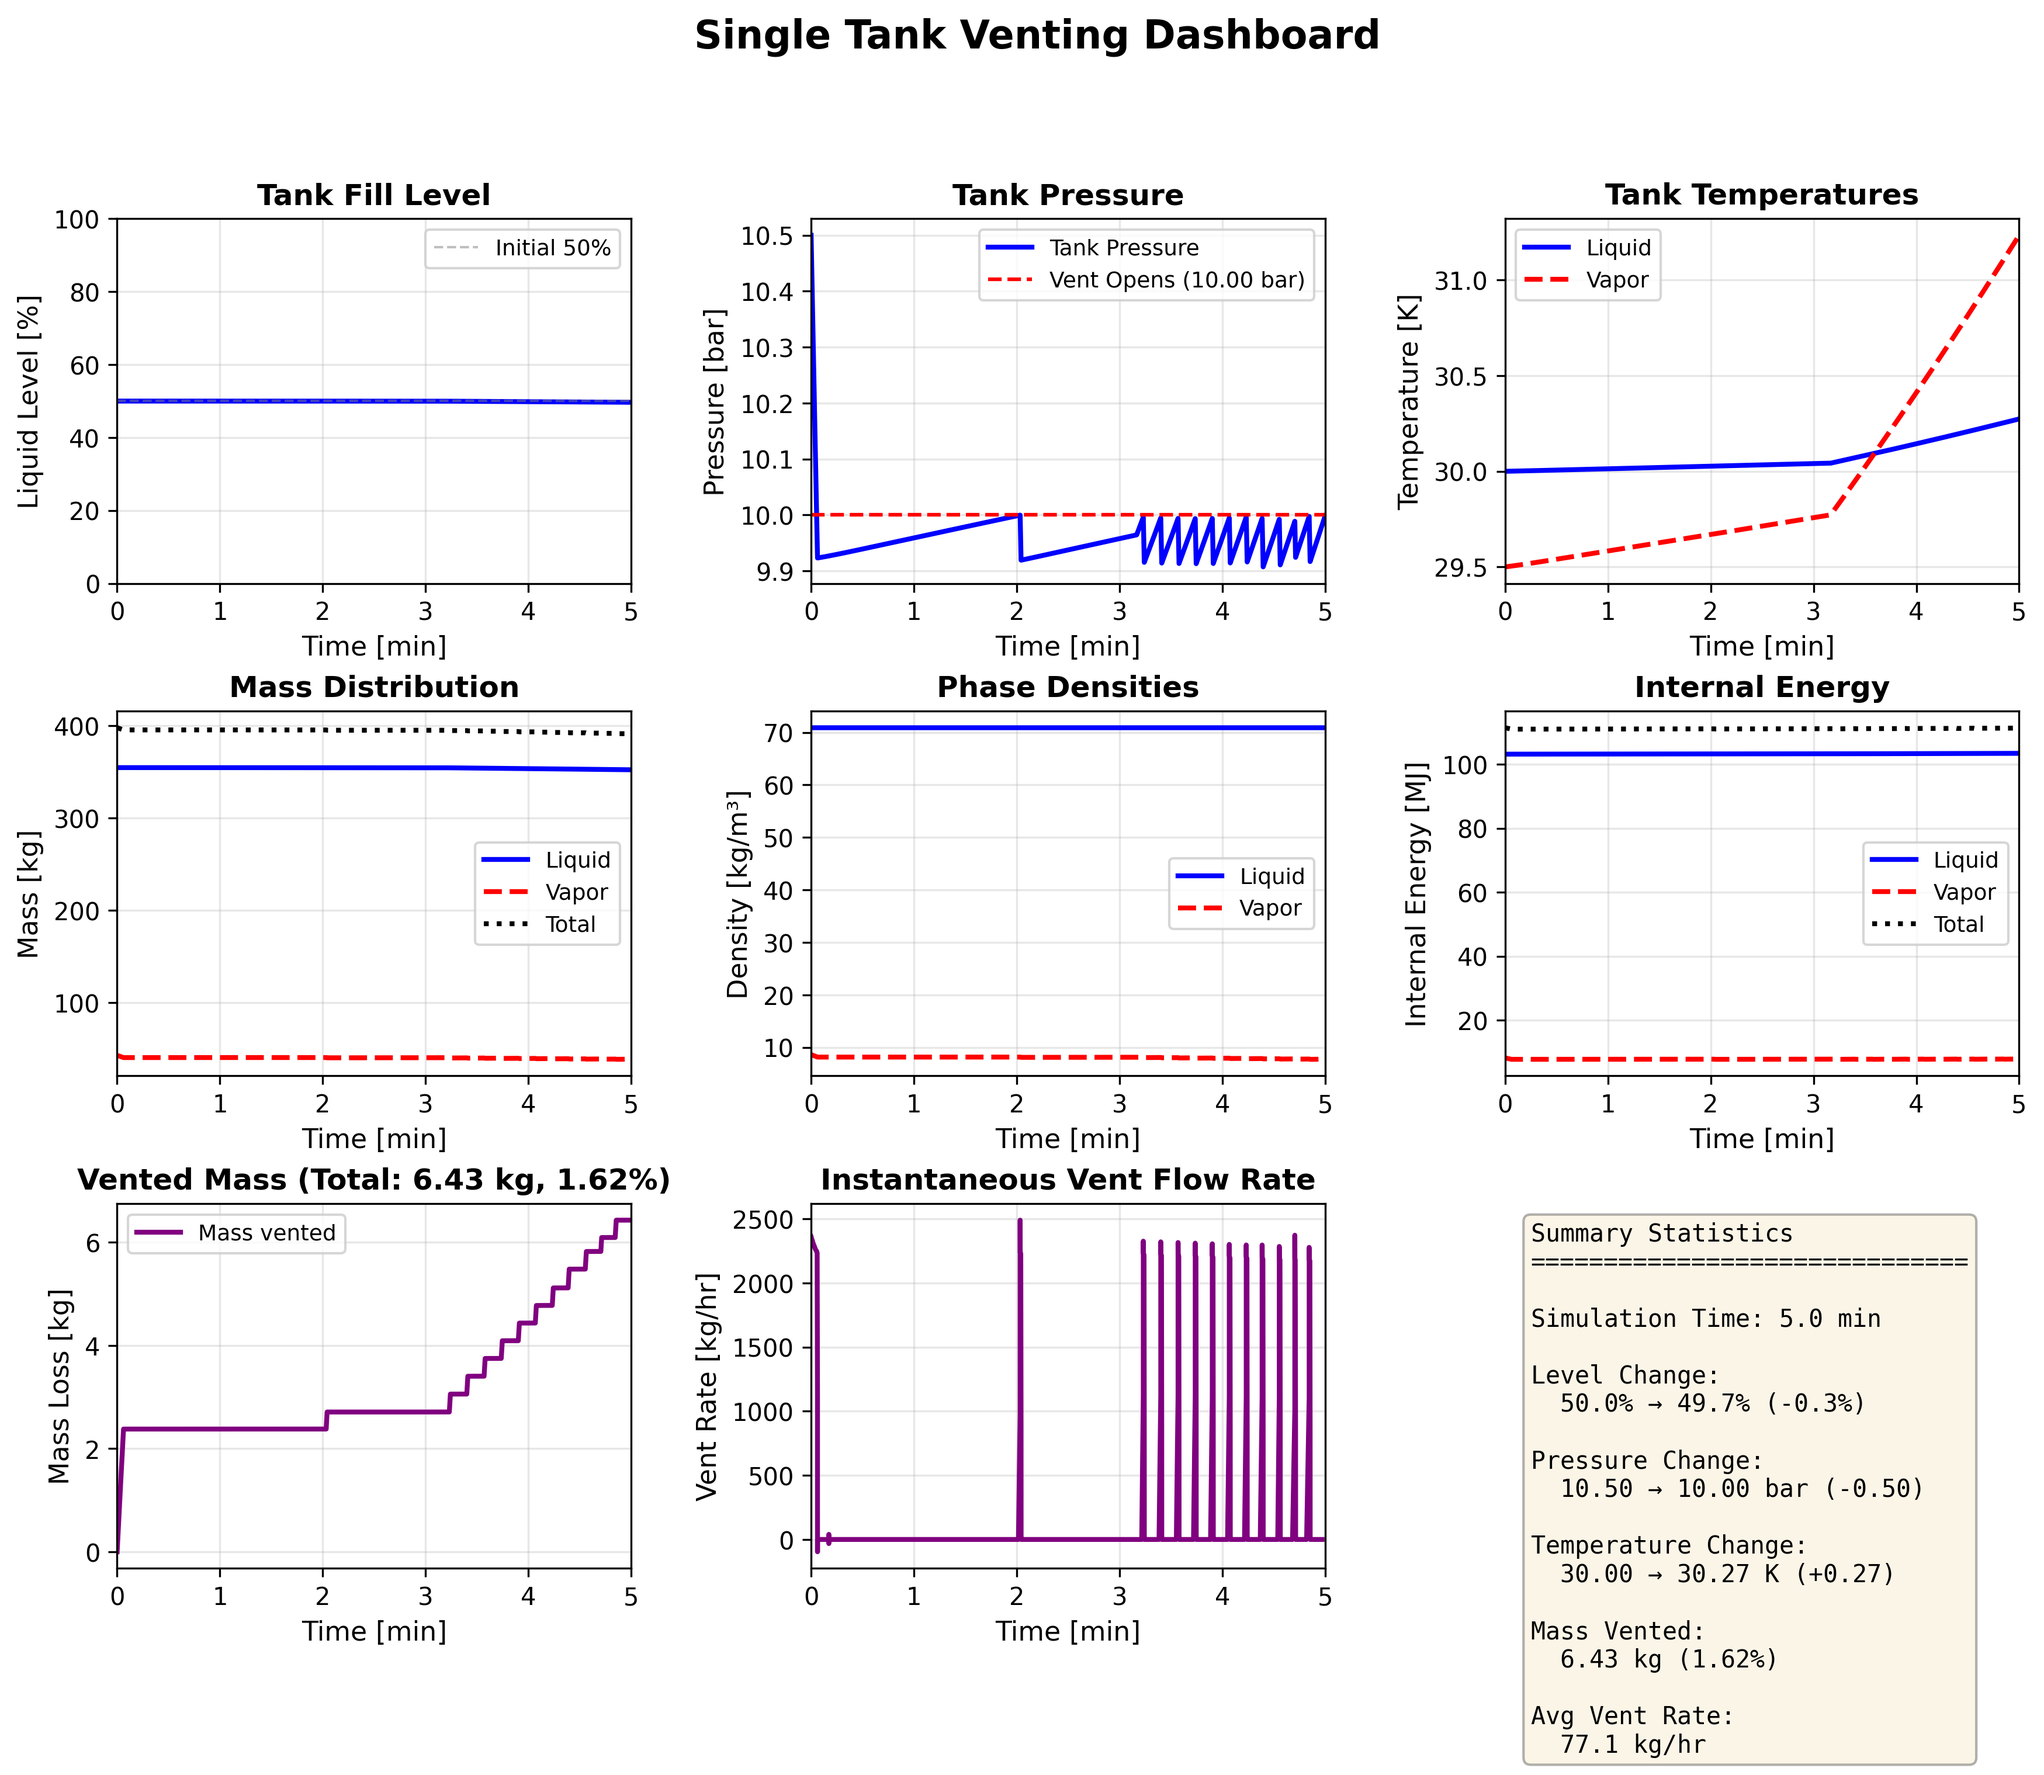
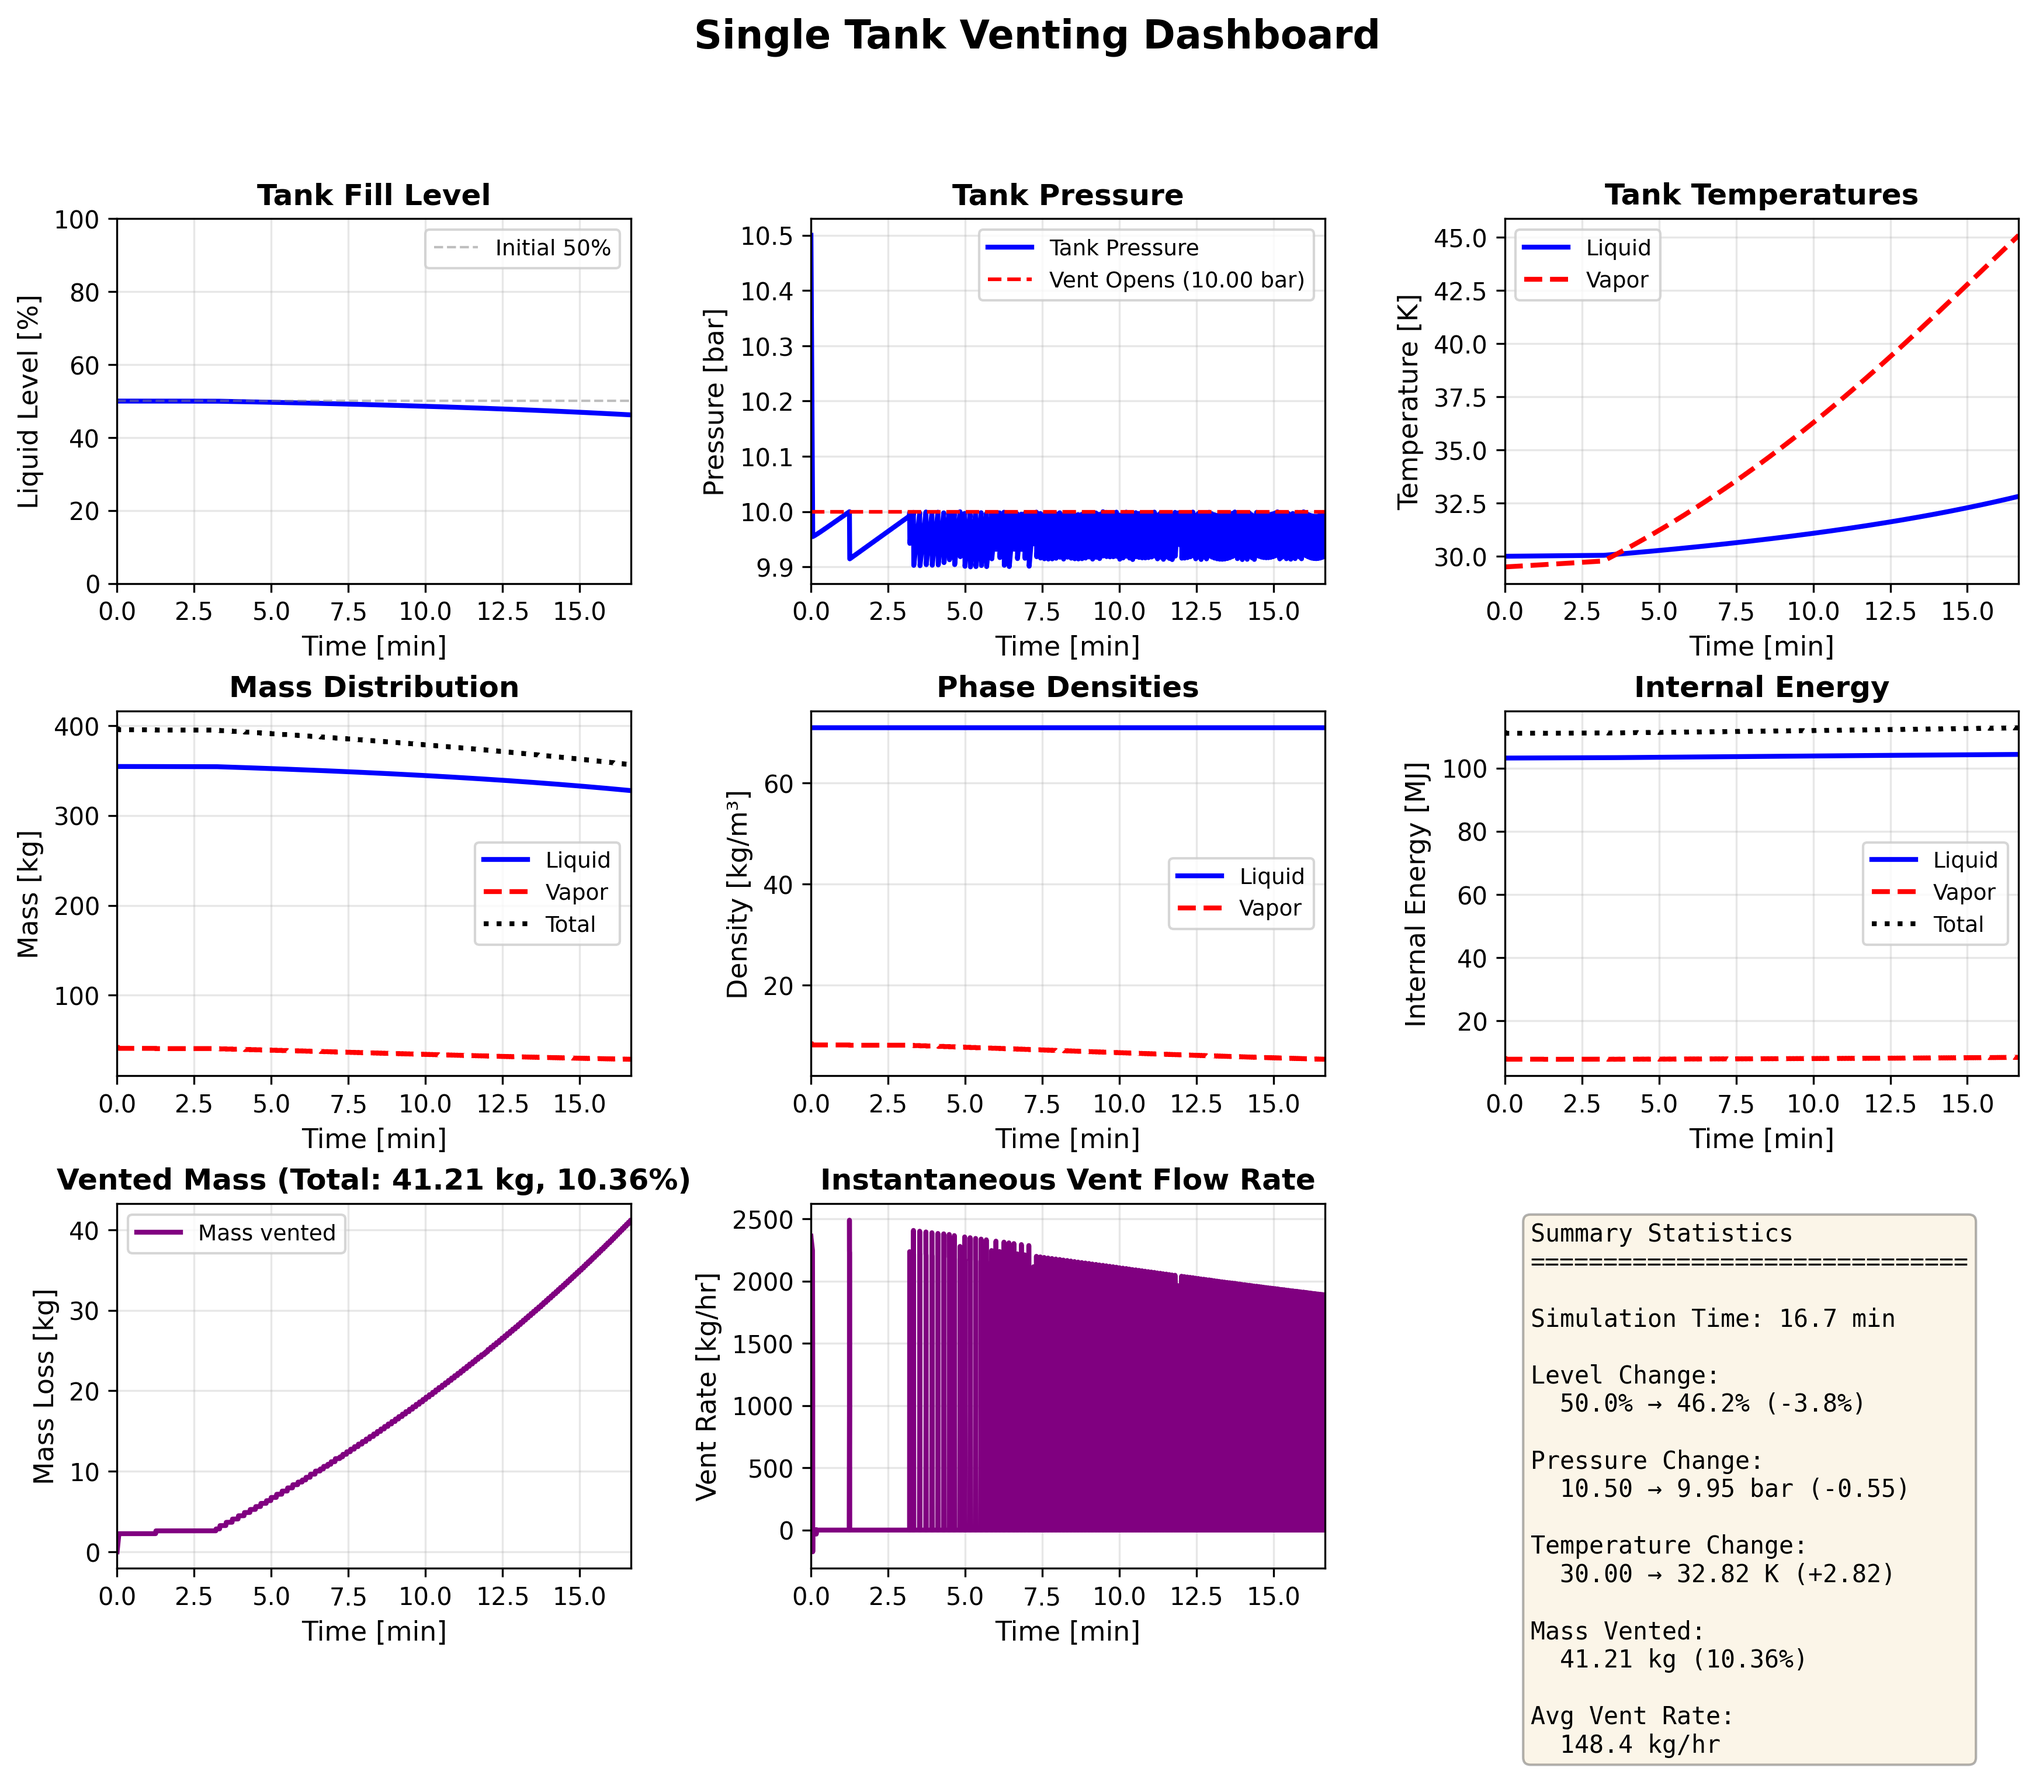
small changes

diff --git a/examples/simple_venting.py b/examples/simple_venting.py
@@ -100,7 +100,7 @@ def main():
     
     # Run simulation - shorter duration for depressurization demo
     simulator = Simulator(config)
-    result = simulator.run(t_end=300, max_step=2.0)  # 5 min
+    result = simulator.run(t_end=1000, max_step=0.5)  # 5 min
     
     print(f"\nSimulation completed!")
     print(f"  Status: {result.message}")
